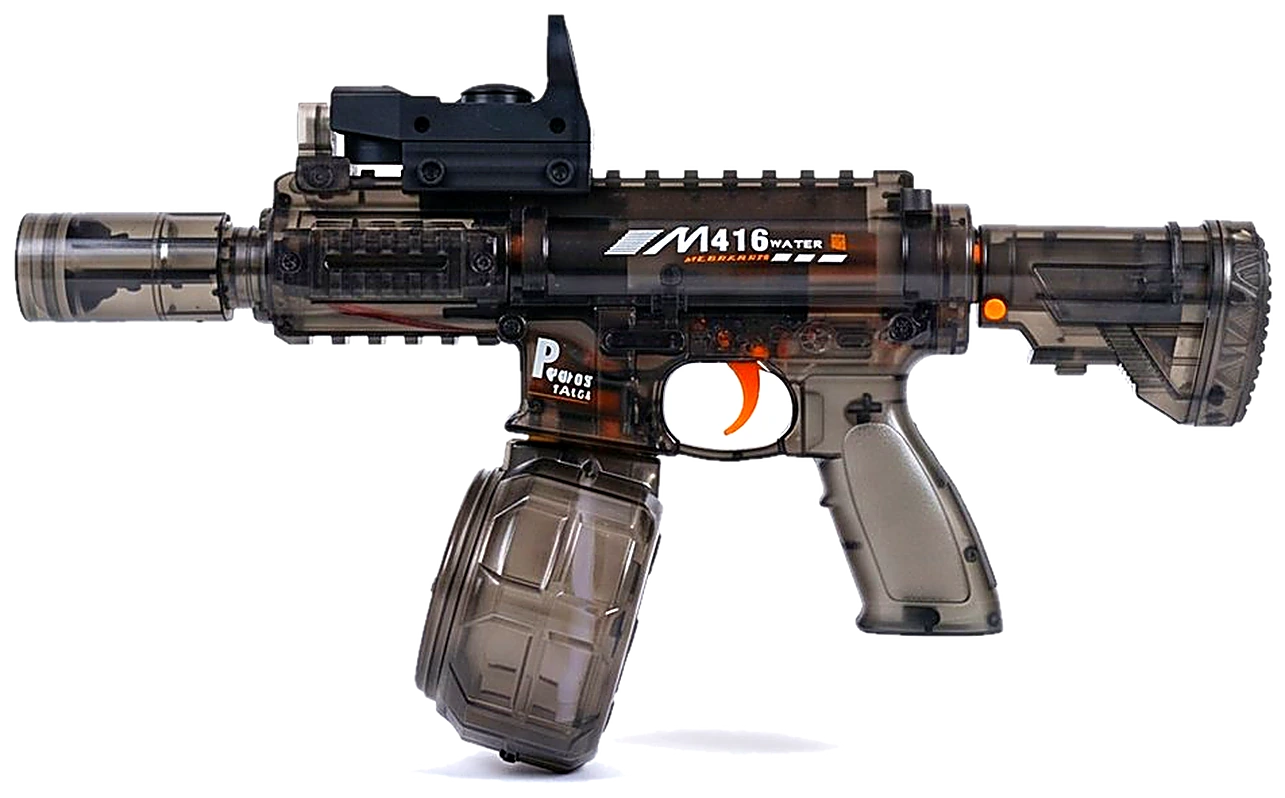
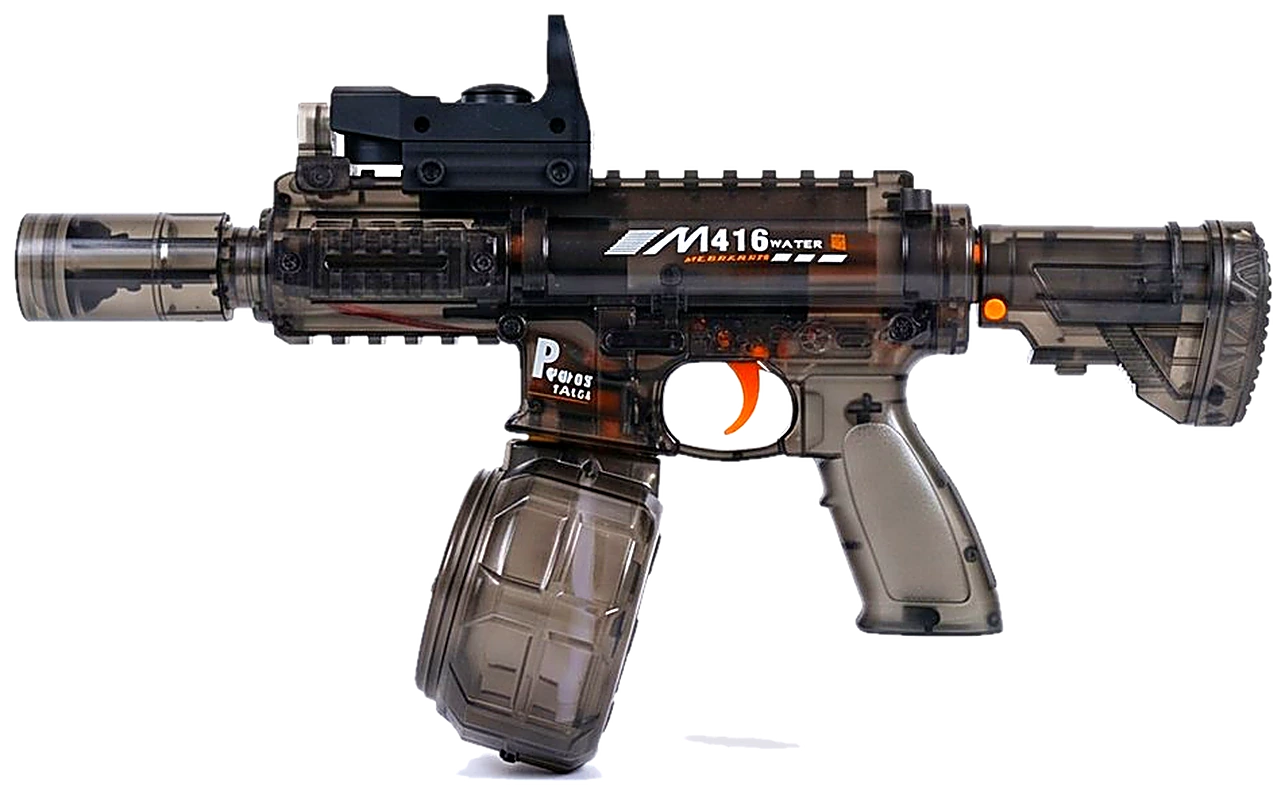
feat(hero): squad upsell slide, EXTRA-discount clarity, scroll cue, cleaner cutouts
- Add a 4th hero slide upselling Build Your Squad: two blasters in a clean
  parallel lineup, perk chips and a "Build your squad" CTA that scrolls to the
  builder.
- Make the bundle discount read as EXTRA (on top of the launch price, not a
  replacement): hero badge "Extra 16% off", a yellow-highlighted "Up to 16%
  EXTRA" chip, and in the builder the tier labels (10/13/16% EXTRA), intro,
  subtitle, nudge and mobile sticky bar all say EXTRA.
- Remove the coming-soon Crimson from the Arsenal grid and the squad builder
  (kept in PRODUCTS so it still teases in the hero); both grids reflow to 2-up.
- Add a bouncing scroll-down cue under the hero dots.
- Add "Buy more, save more" + "Bundle up for an extra discount" to the hero
  marquee.
- Re-cut the gun photos so enclosed holes (trigger guards) are truly transparent
  and the M416 drum shadow is gone, while clear parts (the gel hopper) survive.

diff --git a/frontend/src/components/landing/HeroCarousel.jsx b/frontend/src/components/landing/HeroCarousel.jsx
@@ -3,6 +3,7 @@ import { Link } from "react-router-dom";
 import { useCart, useCartItem } from "@/lib/cart";
 import { asset } from "@/lib/asset";
 import { trackEvent } from "@/lib/analytics";
+import { scrollToSection } from "@/lib/scrollToSection";
 import { PRODUCTS } from "@/components/landing/ArsenalSection";
 
 /**
@@ -53,7 +54,26 @@ const COPY = {
     },
 };
 
-const SLIDES = PRODUCTS.map((p) => ({ ...p, ...(COPY[p.id] || {}) }));
+/* High-CTA upsell slide for the Build Your Squad bundle builder. Not a product
+   (no single SKU or price) — it shows the two blasters together and routes down
+   to the #squad-packs builder. Appended after the real products. */
+const SQUAD_SLIDE = {
+    id: "squad",
+    type: "squad",
+    name: "Squad",
+    accent: "#F8290A",
+    badge: "Extra 16% off",
+    sub: "Bundle",
+    lead: "Bigger squad,",
+    emph: "bigger savings.",
+    desc: "Your bundle discount stacks on top of our launch prices, so you save EXTRA. The more blasters you add, the bigger it gets, up to 16% off plus free shipping on 6 or more.",
+    perks: ["Up to 16% EXTRA off", "On top of sale prices", "Free shipping on 6+"],
+};
+
+const SLIDES = [
+    ...PRODUCTS.map((p) => ({ ...p, ...(COPY[p.id] || {}) })),
+    SQUAD_SLIDE,
+];
 const COUNT = SLIDES.length;
 
 /* ── Bottom marquee ── a second scrolling bar under the carousel leaning on
@@ -65,8 +85,10 @@ const COUNT = SLIDES.length;
    speed). "India" lines are highlighted in brand yellow. */
 const MARQUEE_ITEMS = [
     { t: "Proudly Made in India", hot: true },
+    { t: "Buy more, save more", hot: true },
     { t: "Full-auto, zero pumping" },
     { t: "300ml drum-fed tank" },
+    { t: "Bundle up for an extra discount" },
     { t: "8-10m soak range" },
     { t: "Up to 45 min play time" },
     { t: "Free shipping across India", hot: true },
@@ -241,6 +263,12 @@ export default function HeroCarousel({ heroRef }) {
         openDrawer();
     };
 
+    const goSquad = (e) => {
+        if (e) e.preventDefault();
+        trackEvent("hero_build_squad", {});
+        scrollToSection("#squad-packs");
+    };
+
     return (
         <section
             ref={heroRef}
@@ -270,7 +298,8 @@ export default function HeroCarousel({ heroRef }) {
                     {SLIDES.map((s, i) => {
                         const show = i === active;
                         const accent = s.accent;
-                        const buyable = !s.comingSoon;
+                        const isSquad = s.type === "squad";
+                        const buyable = !s.comingSoon && !isSquad;
                         const pct =
                             s.mrp && s.price ? Math.round(((s.mrp - s.price) / s.mrp) * 100) : 0;
                         return (
@@ -288,14 +317,36 @@ export default function HeroCarousel({ heroRef }) {
                                     <div className="relative order-1 flex items-center justify-center lg:order-2">
                                         <HeroSplash accent={accent} />
 
-                                        <img
-                                            src={cutout(s.image)}
-                                            alt={`${s.name} ${s.sub}`}
-                                            draggable="false"
-                                            loading={i === 0 ? "eager" : "lazy"}
-                                            decoding="async"
-                                            className="relative w-[min(78vw,400px)] -rotate-6 drop-shadow-[0_26px_34px_rgba(0,0,0,0.25)] lg:w-[520px] xl:w-[560px]"
-                                        />
+                                        {isSquad ? (
+                                            // Two blasters as a clean, parallel lineup = "squad".
+                                            <div className="relative h-[300px] w-[min(86vw,400px)] lg:h-[450px] lg:w-[520px]">
+                                                <img
+                                                    src={cutout("mp5k.jpg")}
+                                                    alt="MP5K water blaster"
+                                                    draggable="false"
+                                                    loading="lazy"
+                                                    decoding="async"
+                                                    className="absolute left-1/2 top-0 w-[70%] -translate-x-1/2 -rotate-3 drop-shadow-[0_16px_24px_rgba(0,0,0,0.22)]"
+                                                />
+                                                <img
+                                                    src={cutout("m416.jpg")}
+                                                    alt="M416 water blaster"
+                                                    draggable="false"
+                                                    loading="lazy"
+                                                    decoding="async"
+                                                    className="absolute bottom-0 left-1/2 w-[70%] -translate-x-1/2 -rotate-3 drop-shadow-[0_16px_24px_rgba(0,0,0,0.22)]"
+                                                />
+                                            </div>
+                                        ) : (
+                                            <img
+                                                src={cutout(s.image)}
+                                                alt={`${s.name} ${s.sub}`}
+                                                draggable="false"
+                                                loading={i === 0 ? "eager" : "lazy"}
+                                                decoding="async"
+                                                className="relative w-[min(78vw,400px)] -rotate-6 drop-shadow-[0_26px_34px_rgba(0,0,0,0.25)] lg:w-[520px] xl:w-[560px]"
+                                            />
+                                        )}
                                     </div>
 
                                     {/* ── LEFT (text) ── */}
@@ -316,6 +367,26 @@ export default function HeroCarousel({ heroRef }) {
                                         <p className="mx-auto mt-3.5 max-w-md font-inter text-[13.5px] leading-relaxed text-[#1a1a1a]/70 sm:text-[15px] lg:mx-0">
                                             {s.desc}
                                         </p>
+
+                                        {/* perk chips (squad) — the EXTRA-discount chip is
+                                            highlighted in brand yellow so it reads as a
+                                            bonus on top of the launch price, not a replacement. */}
+                                        {isSquad && (
+                                            <div className="mt-4 flex flex-wrap items-center justify-center gap-2 lg:justify-start">
+                                                {s.perks.map((pk) => {
+                                                    const hot = /extra/i.test(pk);
+                                                    return (
+                                                        <span
+                                                            key={pk}
+                                                            className={`rounded-full px-3 py-1 font-inter text-[11.5px] font-bold ${hot ? "border-2 border-[#1a1a1a]" : ""}`}
+                                                            style={hot ? { background: "#F8F31A", color: "#1a1a1a" } : { background: `${accent}1f`, color: accent }}
+                                                        >
+                                                            {pk}
+                                                        </span>
+                                                    );
+                                                })}
+                                            </div>
+                                        )}
 
                                         {/* price (buyable only) */}
                                         {buyable && (
@@ -341,7 +412,31 @@ export default function HeroCarousel({ heroRef }) {
 
                                         {/* CTAs */}
                                         <div className="mt-6 flex items-center justify-center gap-3 lg:justify-start">
-                                            {buyable ? (
+                                            {isSquad ? (
+                                                <>
+                                                    <button
+                                                        type="button"
+                                                        onClick={goSquad}
+                                                        className="brutal brutal-press inline-flex items-center gap-2 rounded-full px-6 py-3 font-inter text-[13px] font-bold uppercase tracking-[0.12em] text-white"
+                                                        style={{ background: accent }}
+                                                    >
+                                                        Build your squad
+                                                        <svg width="15" height="15" viewBox="0 0 24 24" fill="none" stroke="currentColor" strokeWidth="2.6">
+                                                            <path d="M5 12h14M13 5l7 7-7 7" />
+                                                        </svg>
+                                                    </button>
+                                                    <a
+                                                        href="#squad-packs"
+                                                        onClick={goSquad}
+                                                        className="group inline-flex items-center gap-1.5 font-inter text-[12px] font-semibold uppercase tracking-[0.14em] text-[#1a1a1a]/75 transition hover:gap-2.5 hover:text-[#1a1a1a]"
+                                                    >
+                                                        See the savings
+                                                        <svg width="13" height="13" viewBox="0 0 24 24" fill="none" stroke="currentColor" strokeWidth="2.4">
+                                                            <path d="M5 12h14M13 5l7 7-7 7" />
+                                                        </svg>
+                                                    </a>
+                                                </>
+                                            ) : buyable ? (
                                                 <>
                                                     <button
                                                         type="button"
@@ -411,6 +506,22 @@ export default function HeroCarousel({ heroRef }) {
                         />
                     ))}
                 </div>
+
+                {/* ── Scroll-down cue ── nudges past the hero into the Arsenal. */}
+                <a
+                    href="#arsenal"
+                    onClick={(e) => {
+                        e.preventDefault();
+                        scrollToSection("#arsenal");
+                    }}
+                    aria-label="Scroll to the Arsenal"
+                    className="mx-auto mt-4 flex w-max flex-col items-center gap-1 text-[#1a1a1a]/45 transition hover:text-[#1a1a1a]/75"
+                >
+                    <span className="font-inter text-[9px] font-semibold uppercase tracking-[0.3em]">Scroll</span>
+                    <svg className="animate-bounce" width="16" height="16" viewBox="0 0 24 24" fill="none" stroke="currentColor" strokeWidth="2.5" strokeLinecap="round" strokeLinejoin="round">
+                        <path d="M6 9l6 6 6-6" />
+                    </svg>
+                </a>
             </div>
 
             {/* ── Bottom marquee — "Made in India" + specs, slower than the top bar ── */}

diff --git a/frontend/src/components/landing/BuildYourSquad.jsx b/frontend/src/components/landing/BuildYourSquad.jsx
@@ -112,7 +112,9 @@ function Panel({ units, mrpTotal, pct, finalTotal, youSave, contents, onCheckout
                     </button>
                 )}
             </div>
-            <p className="mt-1 font-inter text-[12px] text-[#1a1a1a]/55">The bigger your squad, the more you save.</p>
+            <p className="mt-1 font-inter text-[12px] text-[#1a1a1a]/55">
+                An <span className="font-bold text-[#F8290A]">EXTRA</span> discount, stacked on top of our sale prices.
+            </p>
 
             {/* Tier progress — nodes on the bar, each discount % aligned beneath its node */}
             <div className="mt-6 px-3">
@@ -141,9 +143,9 @@ function Panel({ units, mrpTotal, pct, finalTotal, youSave, contents, onCheckout
                                 style={{ left: `${(t.units / MAX_UNITS) * 100}%` }}
                             >
                                 {on ? (
-                                    <span className="rounded-full px-1.5 py-0.5" style={{ background: YELLOW, color: RED }}>{t.pct}% off</span>
+                                    <span className="rounded-full px-1.5 py-0.5" style={{ background: YELLOW, color: RED }}>{t.pct}% extra</span>
                                 ) : (
-                                    <span className="text-[#1a1a1a]/45">{t.pct}% off</span>
+                                    <span className="text-[#1a1a1a]/45">{t.pct}% extra</span>
                                 )}
                             </span>
                         );
@@ -153,10 +155,10 @@ function Panel({ units, mrpTotal, pct, finalTotal, youSave, contents, onCheckout
 
             <p className="mt-4 text-center font-inter text-[14px] font-bold leading-snug text-[#1a1a1a]/80">
                 {units === 0
-                    ? "Add blasters to unlock bundle savings."
+                    ? "Add blasters to unlock an EXTRA bundle discount."
                     : next
-                        ? `Add ${next.units - units} more to unlock ${next.pct}% off${next.perk ? " + " + next.perk : ""}.`
-                        : "Top squad discount unlocked. Free shipping included."}
+                        ? `Add ${next.units - units} more for an EXTRA ${next.pct}% off${next.perk ? " + " + next.perk : ""}.`
+                        : "Max EXTRA discount unlocked. Free shipping included."}
             </p>
 
             {/* Contents */}
@@ -291,13 +293,14 @@ export default function BuildYourSquad({ packsRef }) {
                     Build your bundle, <span className="text-shimmer">save more</span>.
                 </h2>
                 <p className="mt-4 max-w-xl font-inter text-[15px] leading-relaxed text-[#1a1a1a]/60">
-                    Pick your blasters and the discount grows as the squad does. One tap adds the
-                    whole bundle to your cart. Perfect for Holi mornings and squad water fights.
+                    Pick your blasters and the discount grows as the squad does. It is an{" "}
+                    <span className="font-bold text-[#F8290A]">EXTRA discount on top of our launch prices</span>
+                    , and one tap adds the whole bundle to your cart.
                 </p>
 
                 <div className="mt-10 grid grid-cols-1 items-start gap-6 lg:grid-cols-3">
-                    <div className="grid grid-cols-2 content-start gap-4 self-start sm:grid-cols-3 lg:col-span-2">
-                        {PRODUCTS.map((p) => (
+                    <div className="grid grid-cols-2 content-start gap-4 self-start sm:grid-cols-2 lg:col-span-2">
+                        {PRODUCTS.filter((p) => p.link !== "/product/crimson").map((p) => (
                             <ProductCard
                                 key={p.link}
                                 p={p}
@@ -338,7 +341,7 @@ export default function BuildYourSquad({ packsRef }) {
                         style={{ background: RED }}
                     >
                         <span className="font-inter text-[12px] font-bold uppercase tracking-[0.1em]">
-                            {units} blaster{units > 1 ? "s" : ""}{pct > 0 ? ` · ${pct}% off` : ""}
+                            {units} blaster{units > 1 ? "s" : ""}{pct > 0 ? ` · ${pct}% extra` : ""}
                         </span>
                         <span className="flex items-center gap-2">
                             <span className="font-inter text-[15px] font-bold tabular-nums">{inr(finalTotal)}</span>

diff --git a/frontend/src/components/landing/ArsenalGrid.jsx b/frontend/src/components/landing/ArsenalGrid.jsx
@@ -214,8 +214,8 @@ export default function ArsenalGrid({ arsenalRef }) {
                     and every sunlit day. Zero pumping, zero priming.
                 </p>
 
-                <div className="mt-12 grid grid-cols-1 gap-6 sm:grid-cols-2 lg:grid-cols-3">
-                    {PRODUCTS.map((p) => (
+                <div className="mt-12 grid grid-cols-1 gap-6 sm:grid-cols-2 lg:max-w-4xl">
+                    {PRODUCTS.filter((p) => p.link !== "/product/crimson").map((p) => (
                         <ProductCard key={p.id} p={p} />
                     ))}
                 </div>
